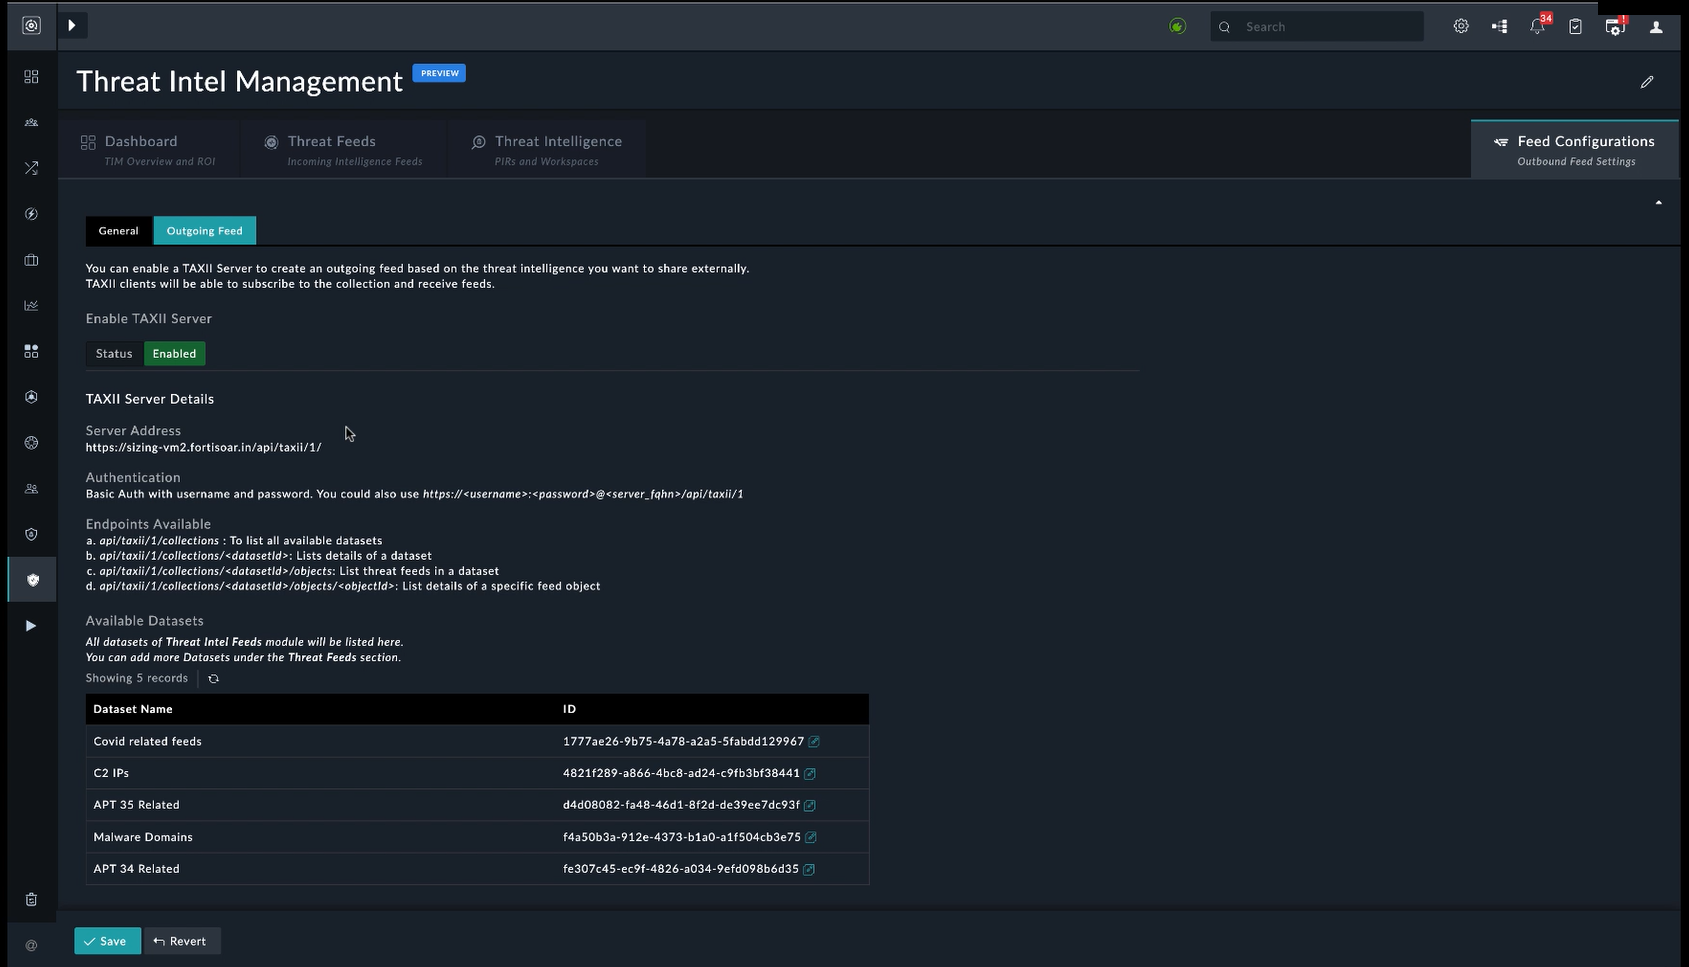
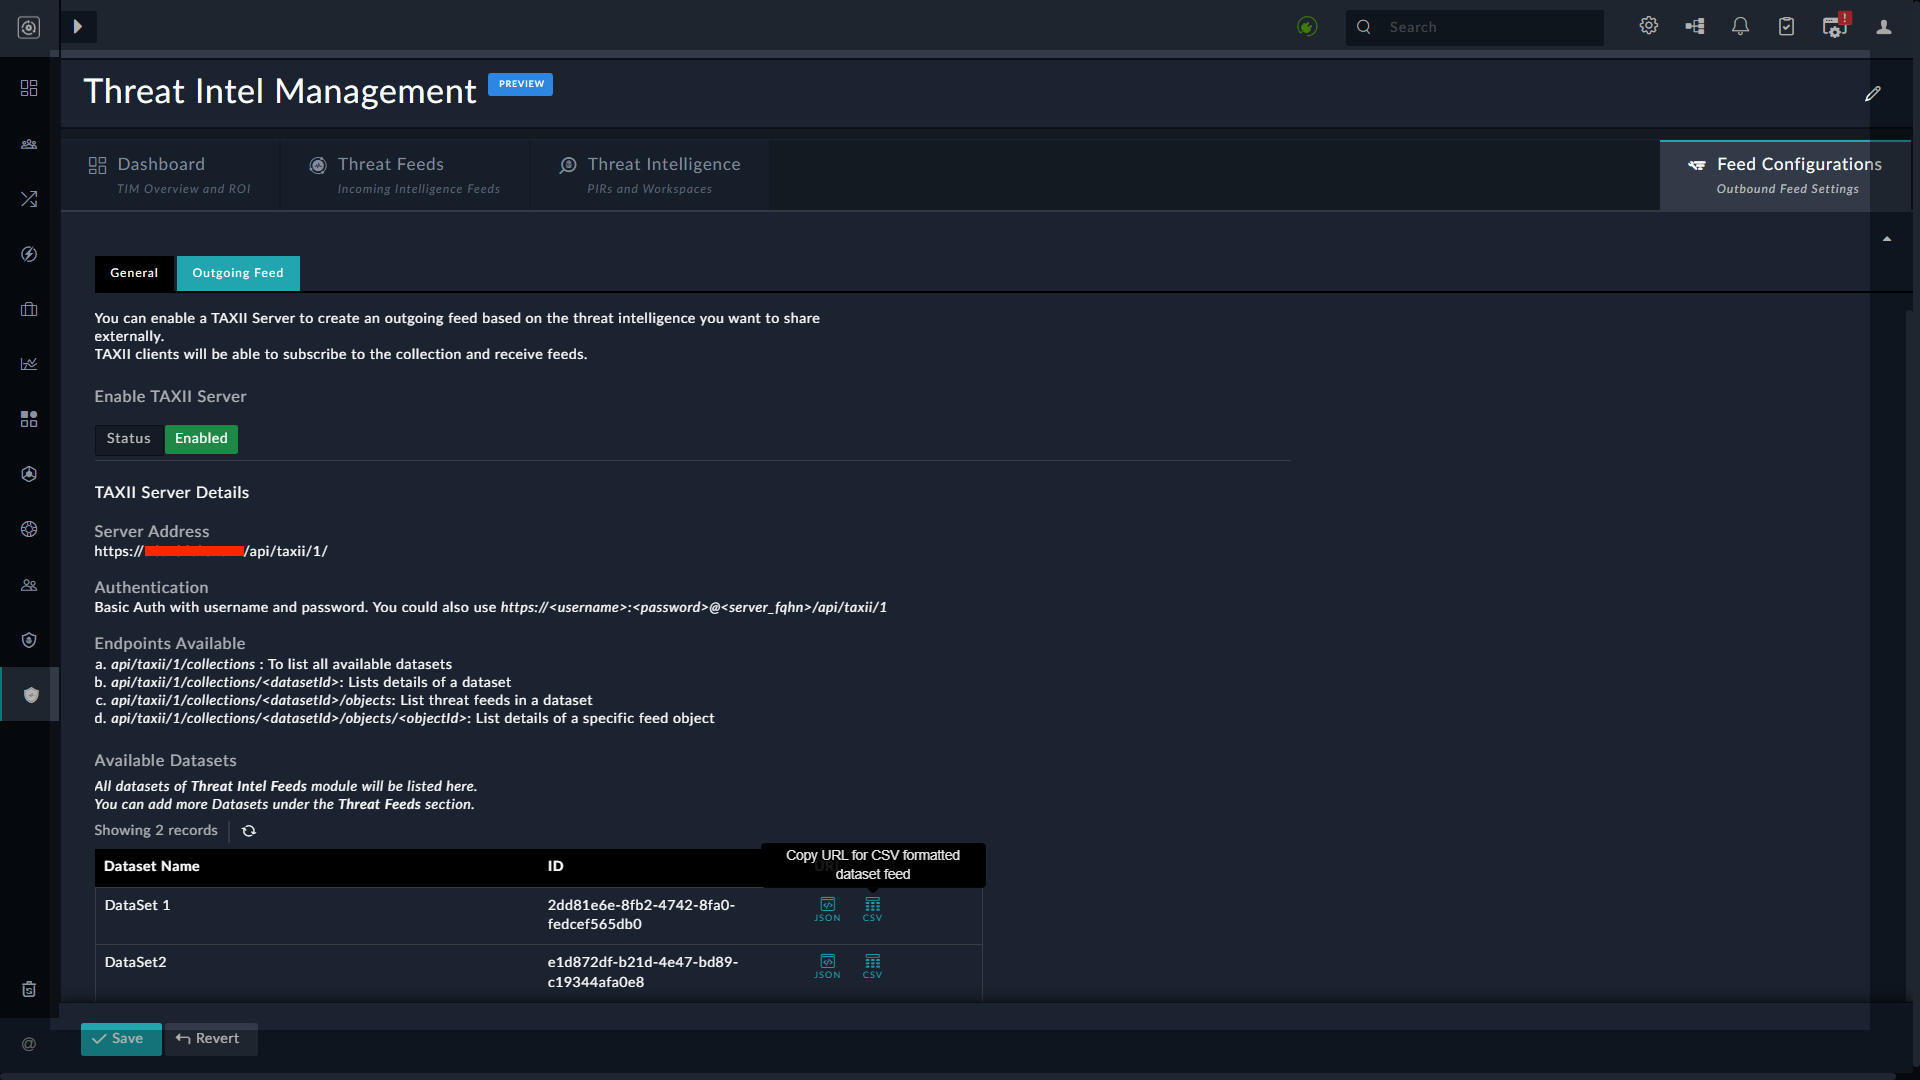
1.0.1 changes

diff --git a/docs/usage.md b/docs/usage.md
@@ -1,15 +1,17 @@
-| [Home](https://github.com/fortinet-fortisoar/solution-pack-threat-intel-management/blob/develop/README.md) |
+| [Home](https://github.com/fortinet-fortisoar/solution-pack-threat-intel-management/blob/release/1.0.1/README.md) |
 |--------------------------------------------|
 
 # Usage
 
 The FortiSOAR's new **Threat Intel Management Solution Pack** brings the SOAR and TIM worlds closer by introducing advanced Threat Intel Management capabilities within the SOAR platform. Refer to the following video to witness how this integration greatly simplifies investigations by bringing in contextual threat intel.
 
-https://www.youtube.com/watch?v=vTvtHQxniVU
+| [![Threat Intel Management Demo Video](res/threat-intelligence-youtube-thumbnail.png)](https://www.youtube.com/watch?v=vTvtHQxniVU) |
+|:-----------------------------------------------------------------------------------------------------------------------------------:|
+|                          [FortiSOAR Threat Intel Management](https://www.youtube.com/watch?v=vTvtHQxniVU)                           |
 
 ## Threat Feed Management and FortiGuard Integration
 
-Using comprehensive, ingestion-friendly feed integrations for multiple paid and open-source third-party feeds (available in FortiSOAR Content Hub), threat intelligence teams can now ingest varied feed data and manage them in a normalized, single pane of glass using the 'Threat Feeds' Module. The solution provides multiple ways to  manage this volume of data by parameters such as feed & source confidence, TLP, Severity, Expiry/Age, etc. Additionally, the solution allows to create feed datasets to filter and group relevant feeds for use in sharing, exporting, or eventually as useful data reference while creating contextual threat intelligence. 
+Using comprehensive, ingestion-friendly feed integrations for multiple paid and open-source third-party feeds (available in FortiSOAR Content Hub), threat intelligence teams can now ingest varied feed data and manage them in a normalized, single pane of glass using the 'Threat Feeds' Module. The solution provides multiple ways to manage this volume of data by parameters such as feed & source confidence, TLP, Severity, Expiry/Age, etc. Additionally, the solution helps create feed datasets to filter and group relevant feeds for use in sharing, exporting, or eventually as useful data reference while creating contextual threat intelligence. 
 
 Another big value addition of the solution is its comprehensive integration with FortiGuard, Fortinet’s flagship threat intelligence source. As part of FortiSOAR TIM Solution, you get unlimited lookups into the rich FortiGuard threat intel database and an ability to ingest its valuable daily threat intelligence feed. In the 'Preview' mode, you can ingest a maximum of 100 feeds daily.
 
@@ -37,7 +39,7 @@ Once the TIM solution pack is installed, you must configure your threat intellig
 Once you have set up data ingestion and are ingesting feeds from various sources, click **Threat Intel Management** in the left navigation to view the `Dashboard` page:  
 ![Threat Intel Management left-navigation collapsed view](res/tim-dashboard-collapsed.png)
 
-The `Dashboard` provides you with insights into the ROI, effectiveness of ingestion, ingestion rates of feeds, how many observables were ingested, how many of the ingested observables got linked to indicators, relevance of the feed sources, etc. These metrics enable you to decide which threat feeds are worth monitoring and the performance of the various threat feeds.
+The `Dashboard` provides you with insights into the ROI, effectiveness of ingestion, ingestion rates of feeds, how many observables were ingested, how many of the ingested observables got linked to indicators, and relevance of the feed sources, etc. These metrics enable you to decide which threat feeds are worth monitoring and the performance of the various threat feeds.
 
 ### Threat Feed Management
 
@@ -62,7 +64,7 @@ The **Threat Intelligence** tab is the cornerstone of the TIM solution as alone 
 A quick example of creating a threat intelligence workflow can be a management request to the threat intelligence team for information on a particular threat actor group, for example, APT 34 in the Middle East and the Telecom sector. Once the threat intelligence team gets this request, they can create a 'Workspace' in the **Recent TIM Workspaces** section as follows:   
 ![APT 34 Middle East workspace](res/workspaces.png)
 
-As you can see the threat intelligence team has defined a workspace APT in MiddleEast (Telecom). The 'Workspace' contains a **Source PIR** section in which the PIR is linked automatically and in which the threat intelligence team can add more contributors allowing for comprehensive research. Also, the Workspace is split into various phases aligned to the Threat Intelligence Lifecycle, where the first stage is collecting and processing data, followed by analyzing the data, and then finally sharing the actionable insights to the stakeholders using reports, etc.
+As you can see the threat intelligence team has defined a workspace APT in MiddleEast (Telecom). The 'Workspace' contains a **Source PIR** section in which the PIR automatically links and the threat intelligence team can add more contributors allowing for comprehensive research. Also, the Workspace is split into various phases aligned to the Threat Intelligence Lifecycle, where the first stage is collecting and processing data, followed by analyzing the data, and then finally sharing the actionable insights to the stakeholders using reports, etc.
 
 On the **Collection & Processing** tab, you can use the datasets that you have created or you can add new datasets in the **Workspace Datasets** section. You can add or link a variety of correlations feed from the MITRE ATT&CK intelligence Framework around its techniques, sub-techniques, tools, etc, or can be associated with vulnerabilities, indicators, notes, etc.  
 ![Collection and Processing tab](res/workspace-datasets.png)
@@ -77,7 +79,7 @@ Once you are done with your analysis, you move on to the **Dissemination & Feedb
 ![Dissemination and Feedback tab](res/share-tab.png)
 
 You can generate a threat summary report of your finding by clicking the **Generate Threat Summary Report** button:  
-![Generate Threat Summary Report popup](res/geneate-threat-summary-report.png)
+![Generate Threat Summary Report popup](res/generate-threat-summary-report.png)
 
 In the Generate Threat Summary Report popup, you can choose various options such as adding a comment to the Workspace and PIR with the report attached for feedback, updating the PIR task status to 'Awaiting Feedback', and you can also assign the task back to the person who raised the request for feedback. Clicking **Generate Threat Intel Summary Report** generates the report and sends it to the team members. This also starts the feedback loop, which if actionable, leads to improvement in the detection rules, or other areas of improvement.
 
@@ -87,20 +89,34 @@ There are other ways in which threat intelligence teams interact with Workspaces
 Now, for this phishing alert, the team requires to get more intelligence around the URL in the 'Covid' correlation that does not contain reputation information (`No Reputation Available`) from the standard enrichment sources. So then, you can select that correlation and click **Execute** and choose the **Raise Priority Intelligence Requirement Request (PIR)** playbook:  
 ![Raising a PIR](res/raise-pir.png)
 
-Clicking  **Raise Priority Intelligence Requirement Request (PIR)**  displays a  **Raise Priority Intelligence Requirement Request (PIR)**  popup, in which you can specify the details of the PIR and then click Submit PIR Request To Threat Intel Team. This in turn submits the PIR to the threat intelligence team and they create the required workspace such as 'Investigatecovidreporting.com'. Next, the threat intelligence team can start investigating the URL, find related IPs, run whois analysis, etc., and then add all the relevant items and sent this information back to the 'Firewall' team, which starts the feedback loop and dialog between teams, making detection and prevention more effective.
+Clicking  **Raise Priority Intelligence Requirement Request (PIR)**  displays a  **Raise Priority Intelligence Requirement Request (PIR)**  popup, in which you can specify the details of the PIR and then click Submit PIR Request To Threat Intel Team. This in turn submits the PIR to the threat intelligence team and they create the required workspace such as 'Investigatecovidreporting.com'. Next, the threat intelligence team can start investigating the URL, find related IPs, run whois analysis, etc., and then add all the relevant items and send this information back to the 'Firewall' team, which starts the feedback loop and dialog between teams, making detection and prevention more effective.
 
 ### Feed Configurations
 
 On the **Feed Configurations** tab, on the **General** tab, you can configure the feed confidence threshold to automatically update the matching indicator record reputation. In this case, the reputation of an indicator that has a matching feed gets automatically updated with the reputation of the feed, provided the confidence of the feed is equal or above to the value specified in the Selected Feed Confidence Threshold field (70% in our example):  
 ![Feed Configurations - General tab](res/general.png)
 
-On the **Outgoing Feed** tab, you can configure standard ways to share threat feeds data, by clicking Enable on the Outgoing Feed tab and then configure a TAXII server so that any other platform having STIX/TAXII capabilities can consume this data:  
-![Feed Configurations - Outgoing Feed tab](res/feed-config.png) 
+The **Outgoing Feed** tab allows you to configure standard ways to share threat feed data. Under **Enable TAXII Server**, Click the button to enable the TAXII server so that any TAXII client can subscribe to the collection and receive feeds.
+
+![Feed Configurations - Outgoing Feed tab](res/feed-config.png)
+
+As soon as you enable the TAXII server, the following details appear under **TAXII Server Details**:
+
+**Server address**: Contains a TAXII server address for the clients to connect, and eventually process, the threat intel feed
+
+**Authentication method**: The authentication method that clients may use to connect. They may use the URL for authentication as demonstrated in the example
+
+**Available Endpoints**: There are 4 endpoints available. Append these to the end of a TAXII server address to get the mentioned result:
+
+| Path                                                     | Purpose                         |
+|:---------------------------------------------------------|:--------------------------------|
+| `api/taxii/1/collections`                                | list all available datasets     |
+| `api/taxii/1/collections/<datasetId>`                    | get details of any dataset      |
+| `api/taxii/1/collections/<datasetId>/objects`            | list threat feeds in a dataset         |
+| `api/taxii/1/collections/<datasetId>/objects/<objectId>` | list details of a specific feed objects|
+
+**Available Datasets**: The `Available Datasets` section, contains a list of all datasets of the Threat Intel Feeds module. You can click the **JSON** or **CSV** icons to export the threat feeds in the JSON format or the CSV format respectively. You can use the exported threat feeds for consumption in other use cases.
+
+>**NOTE**: You need **FortiSOAR release 7.2.2 or later** to export the threat feeds in the CSV format.
 
 Apart from this, you can also use standard ways to export a CSV file so that other tools can import and use the filtered threat intelligence data.  
-
-## Additional Resources
-
-### Videos
-
-To view a video demonstration for the Threat Intelligence Management solution click [here](https://www.youtube.com/watch?v=vTvtHQxniVU).

diff --git a/README.md b/README.md
@@ -1,6 +1,6 @@
 # Release Information
 
-- **Version**:  1.0.0-1024
+- **Version**:  1.0.1-1002
 - **Certified**: Yes
 - **Publisher**: Fortinet
 - **Compatible Version**: FortiSOAR v7.2.0 and later
@@ -17,6 +17,12 @@ The FortiSOAR Threat Intelligence Solution is delivered as a solution pack throu
 
 The Threat Intelligence Management Solution Pack gathers raw data about emerging or existing threat actors and threats from several sources. The solution pack then analyzes and filters this data to produce threat intelligence feeds and reports that contain information to help automate security control solutions.
 
+To view a video demonstration for the Threat Intelligence Management solution check the following video
+
+| [![Threat Intel Management Demo Video](https://raw.githubusercontent.com/fortinet-fortisoar/solution-pack-threat-intel-management/release/1.0.1/docs/res/threat-intelligence-youtube-thumbnail.png)](https://www.youtube.com/watch?v=vTvtHQxniVU) |
+|:-------------------------------------------------------------------------------------------------------------------------------------------------------------------------------------------------------------------------------------------------:|
+|                                                                                 [FortiSOAR Threat Intel Management](https://www.youtube.com/watch?v=vTvtHQxniVU)                                                                                  |
+
 ## Features
 
 The Threat Intelligence Management Solution Pack has the following features:
@@ -32,5 +38,5 @@ The Threat Intelligence Management Solution Pack has the following features:
 
 # Next Steps
 
-| [Installation](https://github.com/fortinet-fortisoar/solution-pack-threat-intel-management/blob/develop/docs/setup.md#installation) | [Configuration](https://github.com/fortinet-fortisoar/solution-pack-threat-intel-management/blob/develop/docs/setup.md#configuration) | [Usage](https://github.com/fortinet-fortisoar/solution-pack-threat-intel-management/blob/develop/docs/usage.md) | [Contents](https://github.com/fortinet-fortisoar/solution-pack-threat-intel-management/blob/develop/docs/contents.md) |
+| [Installation](https://github.com/fortinet-fortisoar/solution-pack-threat-intel-management/blob/release/1.0.1/docs/setup.md#installation) | [Configuration](https://github.com/fortinet-fortisoar/solution-pack-threat-intel-management/blob/release/1.0.1/docs/setup.md#configuration) | [Usage](https://github.com/fortinet-fortisoar/solution-pack-threat-intel-management/blob/release/1.0.1/docs/usage.md) | [Contents](https://github.com/fortinet-fortisoar/solution-pack-threat-intel-management/blob/release/1.0.1/docs/contents.md) |
 |--------------------------------------------|----------------------------------------------|------------------------|------------------------------|

diff --git a/docs/contents.md b/docs/contents.md
@@ -1,4 +1,4 @@
-| [Home](https://github.com/fortinet-fortisoar/solution-pack-threat-intel-management/blob/develop/README.md) |
+| [Home](https://github.com/fortinet-fortisoar/solution-pack-threat-intel-management/blob/release/1.0.1/README.md) |
 |--------------------------------------------|
 
 # Contents
@@ -126,18 +126,18 @@ Following is the module schema of the **Threat Intel Feeds** module
 
 | Connector                               | Description                                                                                                                                |
 |:----------------------------------------|:-------------------------------------------------------------------------------------------------------------------------------------------|
-| Fortinet FortiGuard Threat Intelligence | It provides threat intelligence to protect them from malicious cyberattacks.                                                               |
-| MalSilo                                 | Facilitates automated interactions, with MalSilo using FortiSOAR™ playbooks. You can ingest threat intelligence feeds from MalSilo Gitlab. |
+| Fortinet FortiGuard Threat Intelligence | It provides threat intelligence to protect them from malicious cyberattacks                                                               |
+| MalSilo                                 | Facilitates automated interactions, with MalSilo using FortiSOAR™ playbooks. You can ingest threat intelligence feeds from MalSilo Gitlab |
 
 ## Widgets
 
-| Widgets                     | Description |
-|:----------------------------|:------------|
-| Card Tiles                  |             |
-| Task Management             |             |
-| Manage Datasets             |             |
-| Access Control              |             |
-| Feed Configuration Settings |             |
+| Widgets                     | Description                                                                  |
+|:----------------------------|:-----------------------------------------------------------------------------|
+| Card Tiles                  | Shows record list in a card tile view                                        |
+| Task Management             | Allows users to manage tasks and get visibility into the current task board. |
+| Manage Datasets             | Manage and Create datasets                                                   |
+| Access Control              | Change which teams or users have access to records                           |
+| Feed Configuration Settings | Configures feeds to be consumed by modules                                   |
 
 ## Playbook Collection
 

diff --git a/release_notes.md b/release_notes.md
@@ -1,0 +1,26 @@
+# What's New
+
+The STIX endpoint to fetch datasets from a FortiSOAR instance has been enhanced to provide the list of feeds in a CSV format as well. With this change, systems such as FortiGate can directly pull threat intel via a FortiSOAR dataset.
+
+## Threat Intel Feed Enhancements
+
+The **Threat Intel Feeds** module better tracks the date and time at which the feeds were ingested or updated into the FortiSOAR instance.
+
+- The Threat Intel Feeds module has now been made **Trackable**
+  - Enabling the **Trackable** checkbox makes the following fields available in the feed management grid:
+      - Created On
+      - Created By
+      - Modified On
+      - Modified By
+- Earlier, the time of creation of feeds at the intel source was labelled as *Created*. To avoid ambiguity with the *Created On* field, the field label *Created* has been renamed to *Created at Source*
+- For similar reasons, the field label *Modified* has been renamed to *Modified at Source*
+
+## Dashboard Enhancements
+
+- All default dashboard components, like *Feeds Ingested*, now reflect statistics for Threat Intel Feeds ingested in the *Last 15 days*
+- *Active Feeds* is now renamed to *Ingestion Volume*
+
+## Bugfixes
+
+- **Get Total Item Count**, under **Threat Intel Management** > **Threat Feeds**, now displays the item count when clicked
+- The query to get Linked Indicators now filters the relevant linked indicators

diff --git a/docs/setup.md b/docs/setup.md
@@ -1,4 +1,4 @@
-| [Home](https://github.com/fortinet-fortisoar/solution-pack-threat-intel-management/blob/develop/README.md) |
+| [Home](https://github.com/fortinet-fortisoar/solution-pack-threat-intel-management/blob/release/1.0.1/README.md) |
 |--------------------------------------------|
 
 # Installation
@@ -21,5 +21,5 @@ Threat Intel Management (TIM) Solution Pack requires the following solution pack
 
 For optimal performance of **Threat Intel Management** solution pack, you can install and configure:
 
-- MITRE ATT&CK connector and set up its ingestion to ensure that ATT&CK data gets ingested into your system. We recommended that you schedule the data ingestion at least once a month.
-    - To configure and use the MITRE ATT&CK connector as a source of Mitre Att&ck information, refer to [Configuring Mitre Att&ck](https://docs.fortinet.com/document/fortisoar/2.1.0/virustotal/166/virustotal-v2-1-0#Configure_Data_Ingestion)
+- The MITRE ATT&CK connector with its ingestion set up to ensure that ATT&CK data gets ingested into your system. We recommended that you schedule the data ingestion for at least once a month.
+  - To configure and use the MITRE ATT&CK connector as a source of Mitre Att&ck information, refer to [Configuring Mitre Att&ck](https://docs.fortinet.com/document/fortisoar/2.1.0/virustotal/166/virustotal-v2-1-0#Configure_Data_Ingestion)
